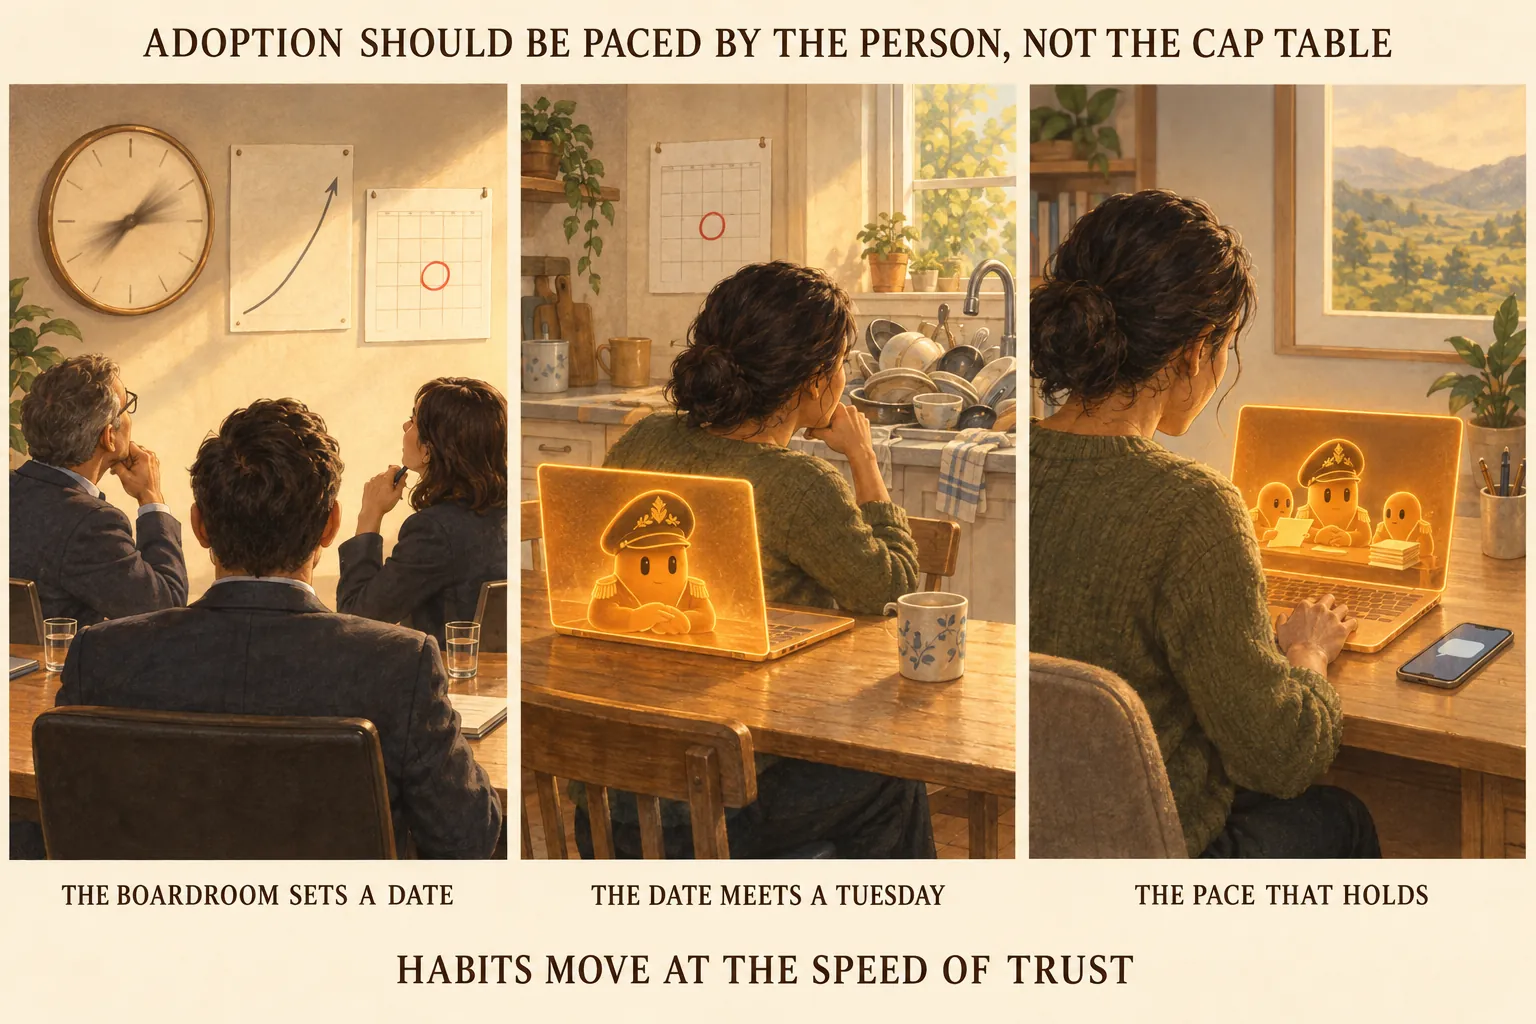
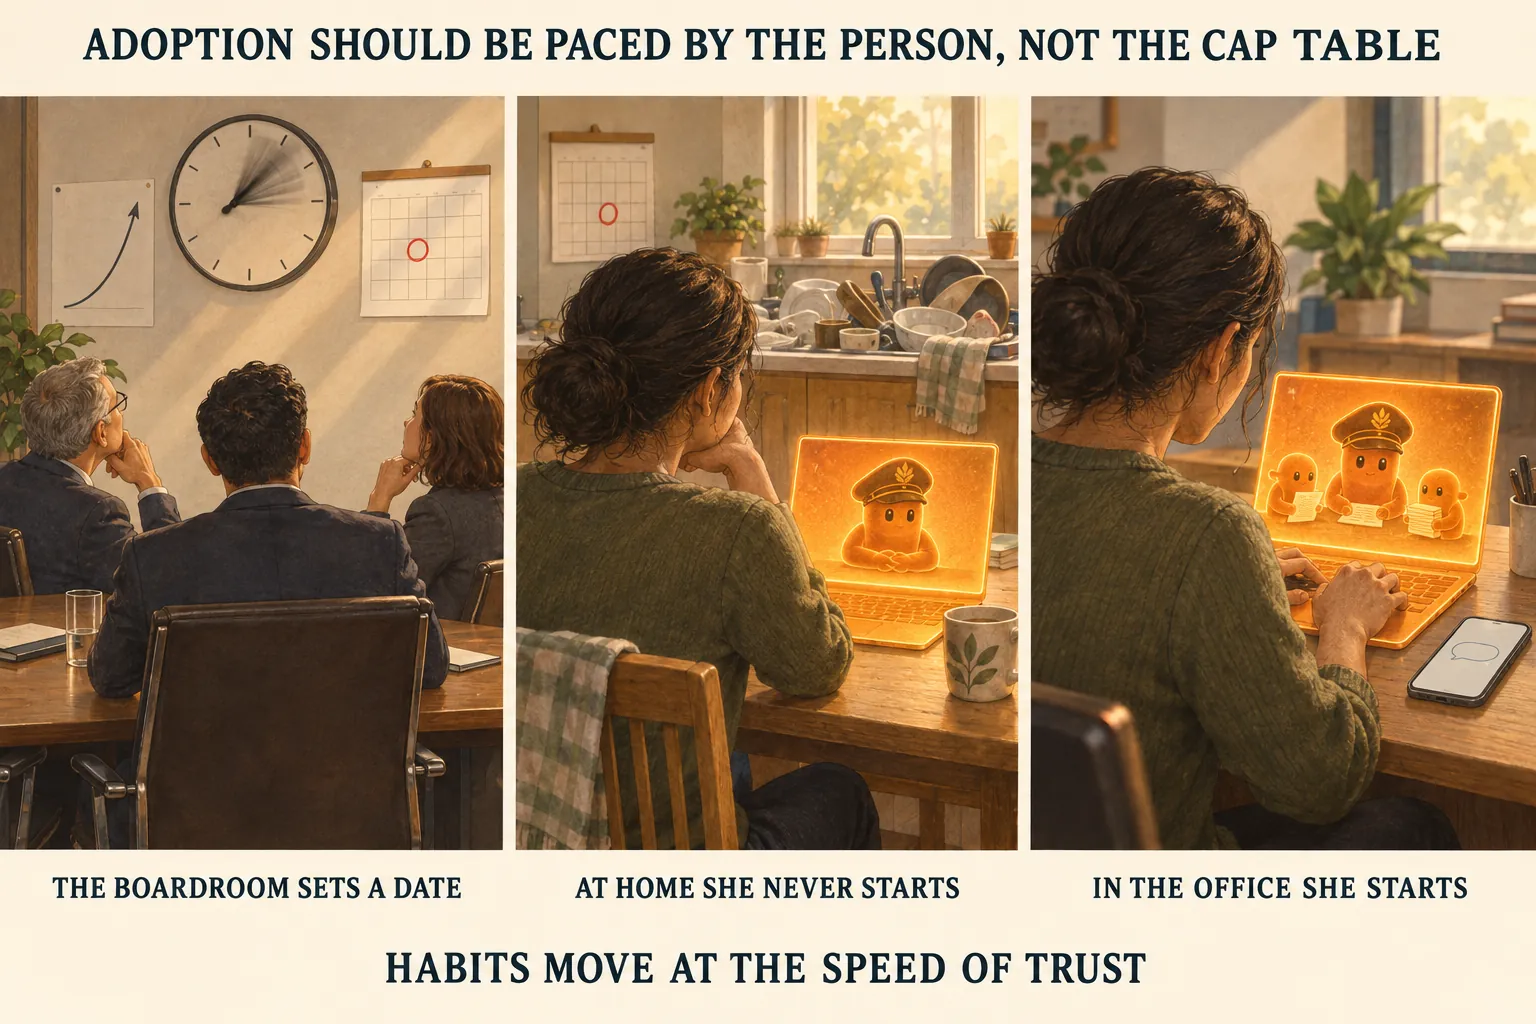
perspective: re-roll the hero with the screen facing its user, plain captions, upgrade-not-change wording

diff --git a/docs/perspectives/adoption-should-be-paced-by-the-person-not-the-cap-table.md b/docs/perspectives/adoption-should-be-paced-by-the-person-not-the-cap-table.md
@@ -1,21 +1,21 @@
 ---
 title: "Adoption Should Be Paced by the Person, Not the Cap Table"
 slug: /perspectives/adoption-should-be-paced-by-the-person-not-the-cap-table
-description: "Two clocks are running on AI adoption. One is how fast a person can change a habit. The other is how fast an investor needs a return. The promises that will not be kept are the ones written against the second clock."
+description: "Two clocks are running on AI adoption. One is how fast a person can upgrade the fundamental way they do their worklife. The other is how fast an investor needs a return. The promises that will not be kept are the ones written against the second clock."
 image: "/img/comics/adoption-should-be-paced-by-the-person-not-the-cap-table.webp"
 ---
 
 # Adoption Should Be Paced by the Person, Not the Cap Table
 
-*Two clocks are running on AI adoption. One is how fast a person can change a habit. The other is how fast an investor needs a return. Every promise that will not be kept was written against the second clock.*
+*Two clocks are running on AI adoption. One is how fast a person can upgrade the fundamental way they do their worklife. The other is how fast an investor needs a return. Every promise that will not be kept was written against the second clock.*
 
-![Three-panel warm editorial strip on a cream ground. Title bar reads "ADOPTION SHOULD BE PACED BY THE PERSON, NOT THE CAP TABLE"; footer bar reads "HABITS MOVE AT THE SPEED OF TRUST". Panel one, captioned "THE BOARDROOM SETS A DATE": three seated figures in business clothes, seen from behind, look up at a back wall holding a large clock whose hands are blurred with speed, an unlabelled steep rising curve, and a calendar with one date circled in red. No laptop. Panel two, captioned "THE DATE MEETS A TUESDAY": the same red-circled calendar hangs in a home kitchen, where a woman in an olive sweater sits at the table with a glowing amber laptop open in front of her, the camera behind her shoulder so the screen faces her and us. Inside the screen a small rounded figure in a gold cap waits with its hands folded, idle. Her head is turned away from it toward a sink stacked with dirty dishes. Panel three, captioned "THE PACE THAT HOLDS": the same woman at a quiet desk, same sweater, same camera position, hands on the keyboard of the same laptop. Inside the screen the capped figure and two smaller helpers are now working. One phone lies face up beside her elbow showing a single empty message bubble. No dishes, no calendar.](/img/comics/adoption-should-be-paced-by-the-person-not-the-cap-table.webp)
+![Three-panel warm editorial strip on a cream ground. Title bar reads "ADOPTION SHOULD BE PACED BY THE PERSON, NOT THE CAP TABLE"; footer bar reads "HABITS MOVE AT THE SPEED OF TRUST". Panel one, captioned "THE BOARDROOM SETS A DATE": three seated figures in business clothes, seen from behind, look up at a back wall holding a large clock whose hands are blurred with speed, an unlabelled steep rising curve, and a calendar with one date circled in red. No laptop. Panel two, captioned "AT HOME SHE NEVER STARTS": the same red-circled calendar hangs in a home kitchen. A woman in an olive sweater sits with her back to us, nearest the camera; beyond her on the table a glowing amber laptop is angled so its screen faces her. Inside the screen a small rounded figure in a gold cap waits with its hands folded, idle. Her head is turned away from it, toward a counter piled with dirty dishes. Panel three, captioned "IN THE OFFICE SHE STARTS": the same woman at a quiet desk, same sweater, back still to us, both hands on the keyboard of the same laptop, its screen again facing her. Inside the screen the capped figure and two smaller helpers are now working. One phone lies face up beside her showing a single empty message bubble. No dishes, no calendar.](/img/comics/adoption-should-be-paced-by-the-person-not-the-cap-table.webp)
 
 ---
 
 ## Two clocks, and only one of them is real
 
-The technology clock is fast and getting faster. The capital clock is faster still, because capital is priced on a story about the next eight quarters. The third clock, the one that actually governs whether anything changes at all, is how long it takes one working adult to do their job differently on a Tuesday.
+The technology clock is fast and getting faster. The capital clock is faster still, because capital is priced on a story about the next eight quarters. The third clock, the one that actually governs whether anything changes at all, is how long it takes one working adult to upgrade the fundamental way they do their worklife.
 
 That third clock is slow, and it does not speed up when you raise more money. It does not speed up when the model improves either. It moves at the speed of a habit, and habits move at the speed of trust. This is the [AI Guidance Gap](/concepts/ai-guidance-gap) seen from the inside of one person instead of across a market.
 
@@ -53,7 +53,7 @@ Once a company owes a return on the capital clock, three moves become rational, 
 
 **Sell transformation instead of a step.** A step is small, provable, and worth roughly what it saves. A transformation can be priced against an imagined future. It also cannot be delivered on the schedule it was sold against, because [transformation is surgery](/concepts/transformation-as-surgery) and most patients do not need the cut.
 
-**Count seats instead of habits.** A seat is bookable this quarter. A changed habit is not, so it stops being measured, and then it stops being worked on. Usage is the only number that cannot be faked here, which is why [daily use is the benchmark that cannot be gamed](/perspectives/daily-use-is-the-benchmark-that-cant-be-gamed).
+**Count seats instead of habits.** A seat is bookable this quarter. An upgraded habit is not, so it stops being measured, and then it stops being worked on. Usage is the only number that cannot be faked here, which is why [daily use is the benchmark that cannot be gamed](/perspectives/daily-use-is-the-benchmark-that-cant-be-gamed).
 
 **Drop the format that works because it does not scale.** The in-person first session is the first thing cut, and it is the thing the customer named as load-bearing.
 
@@ -61,13 +61,13 @@ Do this across a whole market and you get the valuations that assume a transform
 
 ## The humane pace is the one that compounds
 
-Running on the person's clock looks slow from outside and is not. Each habit that actually changes stays changed, and it holds without you. Each one makes the next one easier, because the person now has evidence about themselves rather than a claim from you. That is the same argument [progressive automation is the job](/perspectives/progressive-automation-is-the-job) makes about the work: unglamorous increments, week after week, and the compounding is in the increments rather than in the announcement.
+Running on the person's clock looks slow from outside and is not. Each habit that actually gets upgraded stays upgraded, and it holds without you. Each one makes the next one easier, because the person now has evidence about themselves rather than a claim from you. That is the same argument [progressive automation is the job](/perspectives/progressive-automation-is-the-job) makes about the work: unglamorous increments, week after week, and the compounding is in the increments rather than in the announcement.
 
 What it asks of an operator is specific. Sell the next step, at a price the step is worth. Put the expensive format first and say why. Measure whether they used it, not whether they bought it. Send the message that asks whether they did anything today, and mean it.
 
 None of that can be accelerated by a funding round, which is the point. The pace is set by the person in front of you, and a business that wants to keep its promises has to be priced to run at that speed.
 
-> **Adoption moves at the speed of one person changing one habit, and a promise written against any faster clock is a promise somebody else will have to break.**
+> **Adoption moves at the speed of one person upgrading one habit, and a promise written against any faster clock is a promise somebody else will have to break.**
 
 ## Further Reading
 
